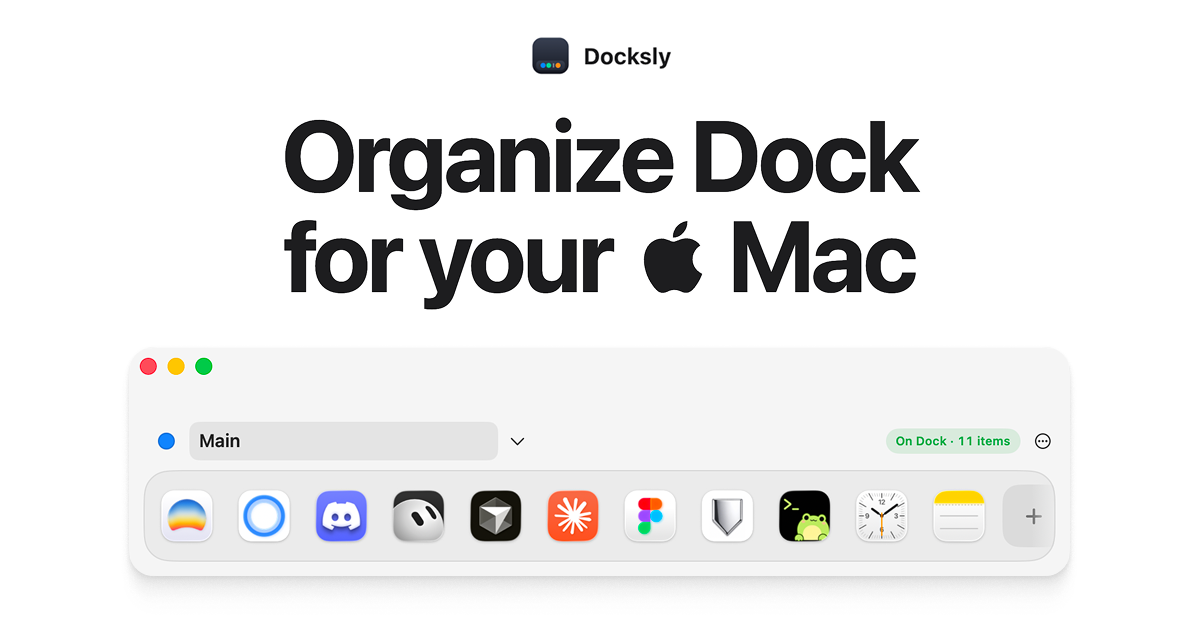
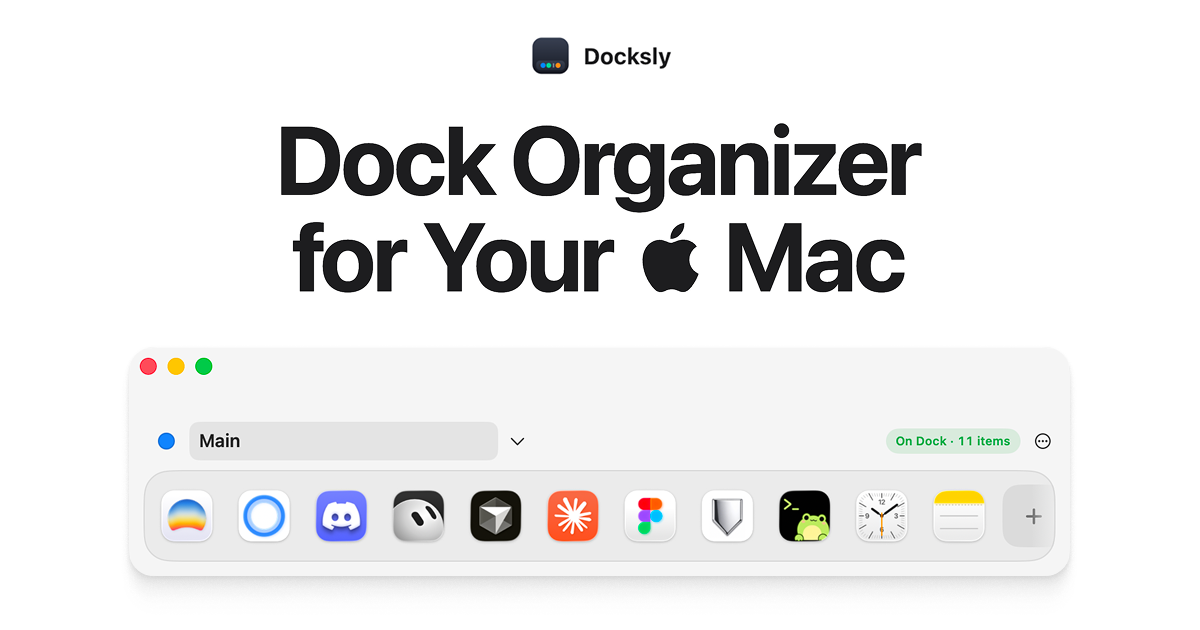
Change the hero to Dock Organizer for Your Mac.

Changed region(s): [[0.2158, 0.181, 0.7708, 0.5127]]

diff --git a/web/src/content/site.ts b/web/src/content/site.ts
@@ -1,8 +1,8 @@
 export const site = {
   name: "Docksly",
   version: "1.0",
-  headline: "Organize Dock",
-  headlineLine2: "for your",
+  headline: "Dock Organizer",
+  headlineLine2: "for Your",
   highlight: "Mac",
   description:
     "Save named Dock layouts and apply them in one click. Finder and Trash stay. Open apps stay open.",
